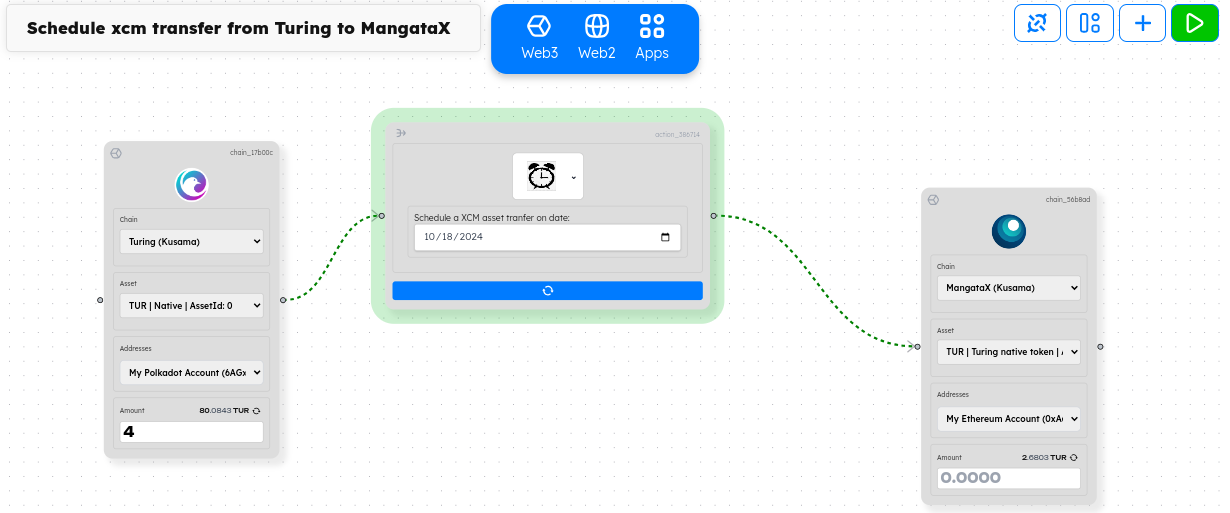
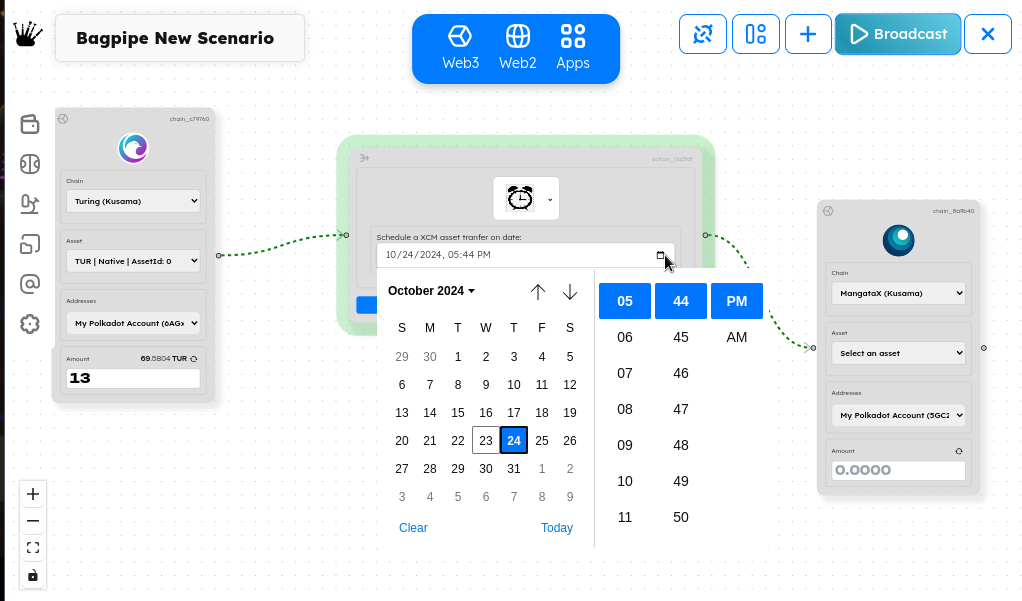
schedule task info

diff --git a/docs/scheduletransfer/readme.md b/docs/scheduletransfer/readme.md
@@ -2,11 +2,14 @@
 
 > Selecting the ScheduleTransfer function allows you to schedule a XCM asset transfer in the near future.  
 
+
+By utilizing Turing Network's AutomationTime Pallet, we have enabled scheduled XCM asset transfers. Allowing you to schedule a transaction in the near future. 
+
 We support the following XCM schedule directions:
 
 ### Turing > Moonriver:    
 ![](/img/tur2ms.png)     
-![](/img/tur2msr.png)      
+    
 
 
 Video demo:  
@@ -20,7 +23,7 @@ https://app.xcmsend.com/#/create/?diagramData=JoPtE8CaT
 
 ### Turing > MangataX:   
 ![](/img/tur2mas.png)      
-![](/img/tur2mar.png)      
+    
 
 Video demo:   
 https://drive.google.com/file/d/1f2VzqyITNPFb3ZKzwhnGzfoi-rdCR8Is/view?usp=sharing
@@ -29,3 +32,36 @@ https://drive.google.com/file/d/1f2VzqyITNPFb3ZKzwhnGzfoi-rdCR8Is/view?usp=shari
 
 Template Link:    
 https://app.xcmsend.com/#/create/?diagramData=1Ti7jn5lM 
+
+
+
+
+### Debug tips:
+
+ Check the latest automateTime on-chain executions here:
+ https://turing.subscan.io/event?page=1&time_dimension=date&module=automationtime   
+
+
+Once you have broadcasted your transaction, you can view the transaction on the subscan block explorer, check the task id of the scheduled job:
+
+![](/img/turing_task_id.png)     
+
+Example transaction:
+https://turing.subscan.io/extrinsic/5907339-2
+
+
+Then we want to head over to the automationTime subscan execution log here:
+ https://turing.subscan.io/event?page=1&time_dimension=date&module=automationtime  
+
+ Our task should be executed under the **automationtime (TaskExecuted)** Action:
+ ![](/img/turtask.png)
+
+
+
+Query the status of the task:
+![](/img/checkturtask.png)
+
+
+You can check the timestamp to human readable datetime using:
+https://www.unixtimestamp.com/
+
